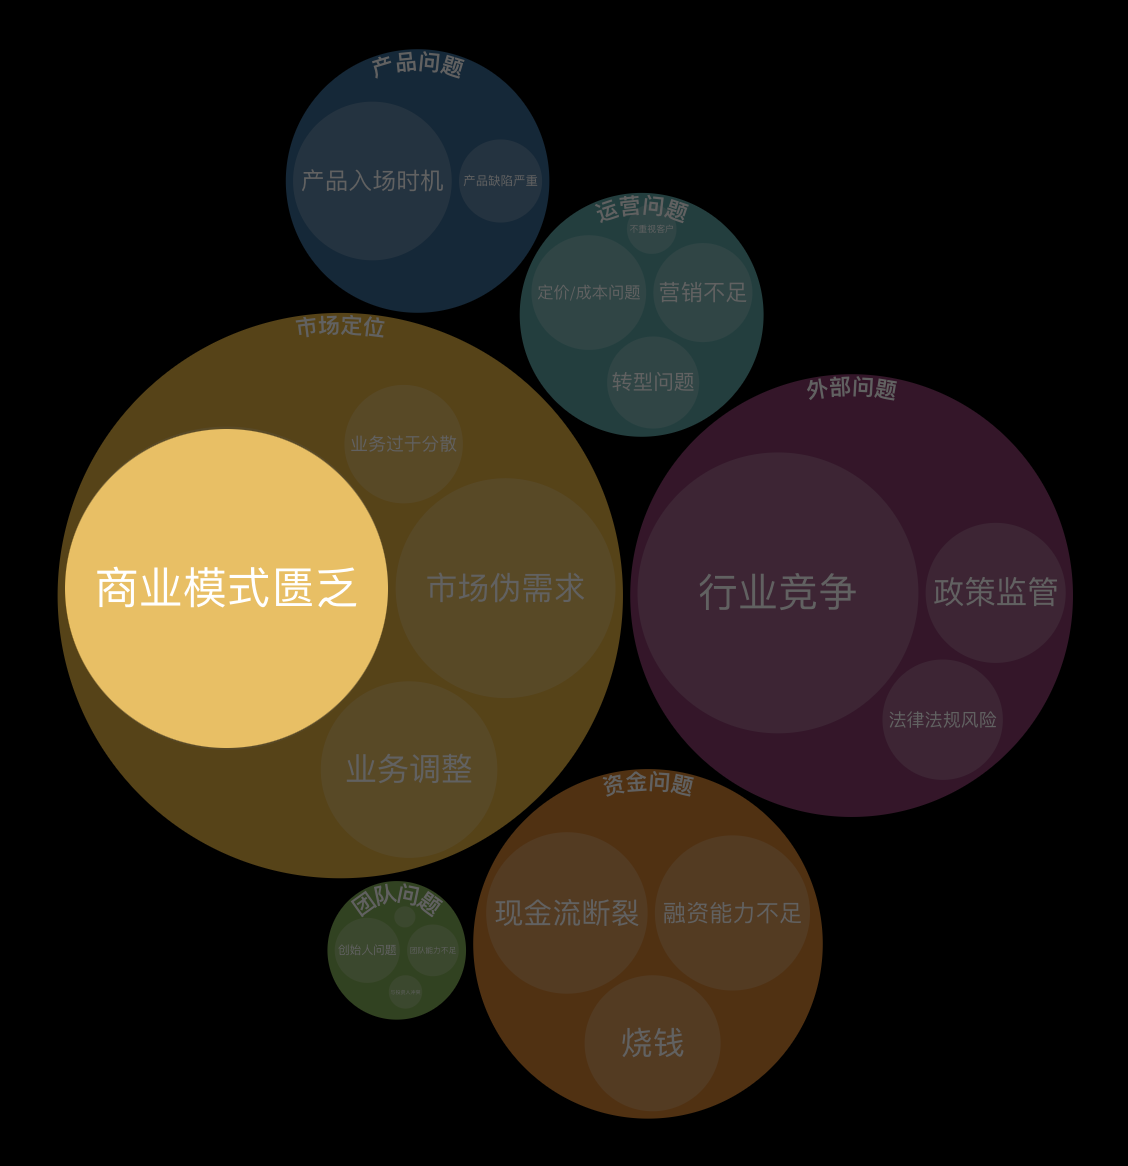
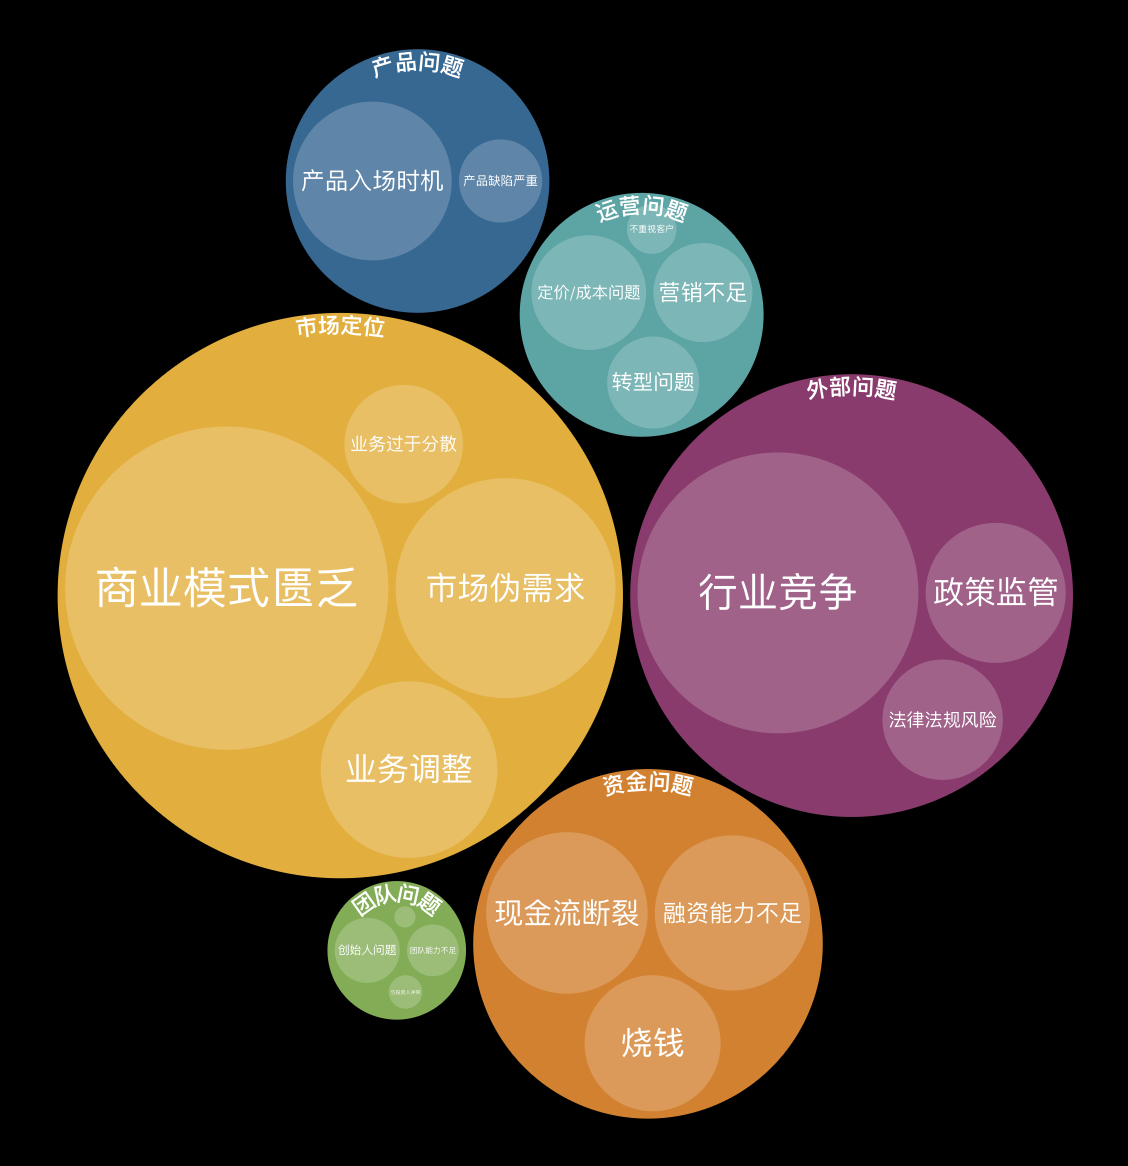
finish dowm

diff --git a/index.html b/index.html
@@ -90,6 +90,7 @@
 		<!-- <div class="flourish-embed" data-src="visualisation/1129604"></div><script src="https://public.flourish.studio/resources/embed.js"></script> -->
 		<section id='intro' style="width:100%;">
 			<!-- <h1 class='intro__hed'>data news</h1> -->
+
 			<div id='teaser' style="width:100%;height:100vh;">
 				<img src="img/teaser-content.png" alt="" style="position:relative;top:10%;width:80%;height:550px">
 			</div>
@@ -106,21 +107,41 @@
 					<p></p>
 				</div>
 				<div class="figure-content" style="max-width:550px;margin:0 auto;background-color: black">
-
-					<div class="bar-race" style="display:none;margin:0 auto;max-width:550px">
-						<div class="flourish-embed" data-src="visualisation/1112101"></div>
-						<div class="bar-intro">
-							在2011年-啊啊啊啊啊啊啊啊啊啊啊啊啊啊啊啊啊啊啊啊啊啊啊啊啊啊啊啊啊啊啊啊啊啊啊啊啊啊啊啊啊啊啊啊啊啊啊啊啊啊啊啊啊啊啊啊啊啊啊啊啊啊啊啊啊啊啊啊啊啊啊啊啊啊啊啊啊啊啊啊啊啊啊啊啊啊啊啊啊啊啊啊啊啊啊啊啊啊啊啊啊啊
+					<div style="position: absolute;top: 50%;transform: translateY(-50%);">
+						<div class="bar-race" style="display:none;margin:0 auto;max-width:550px;">
+							<div class="flourish-embed" data-src="visualisation/1112101"></div>
+							<div class="bar-intro">
+								小垃圾
+							</div>
 						</div>
 					</div>
+
 					<div class="figure-img" style="max-width:550px;margin:0 auto;">
+						<div id="bangdan" style="display:block">
+							<td style="position:relative;">
+								<img style="position:absolute;z-index:100" id="img_0" src="img/img_0.png">
+								<img style="position:absolute;z-index:99" id="img_1" src="img/img_1.png">
+								<img style="position:absolute;z-index:98" id="img_2" src="img/img_2.png">
+								<img style="position:absolute;z-index:97" id="img_3" src="img/img_3.png">
+							</td>
+						</div>
+						<div id="circle-packing" style="display:none;height:100vh">
+							<td style="position:relative;">
+								<img style="position:absolute;z-index:87" id="img_5" src="img/img_5.png">
+								<img style="position:absolute;z-index:86" id="img_6" src="img/img_6.png">
+								<img style="position:absolute;z-index:85" id="img_7" src="img/img_7.png">
+								<img style="position:absolute;z-index:84" id="img_8" src="img/img_8.png">
+								<img style="position:absolute;z-index:83" id="img_9" src="img/img_9.png">
 
-
+							</td>
+						</div>
+						<div id="treemap" style="display:none;height:100vh;text-align: center;">
+							<img style="z-index:82;max-height:600px;max-width:300px;margin: 0 auto;" id="img_10" src="img/img_10.png">
+						</div>
 					</div>
-				</div>
 
-				<!-- <div class="flourish-embed" data-src="visualisation/1129604"></div> -->
-				<!-- <div class="flourish-embed" data-src="visualisation/1111069"></div> -->
+					<!-- <div class="flourish-embed" data-src="visualisation/1129604"></div> -->
+					<!-- <div class="flourish-embed" data-src="visualisation/1111069"></div> -->
 			</figure>
 
 			<article>
@@ -136,34 +157,48 @@
 				<div class='step' data-step='3'>
 					<div class="blank"></div>
 				</div>
-
 				<div class='step' data-step='4'>
+					<div class="blank"></div>
+				</div>
+
+
+				<div class='step' data-step='5'>
 					<!-- <img style="height:100px;width:100px" src="img/treemap.jpg" alt=""> -->
 					<!-- "产品问题"、"运营问题"、"市场定位"、"外部问题"、"团队问题"、"资金问题"。 -->
 					<div class="panel">接下来让我们一起揭秘，新经济公司都有哪些死亡原因？？</div>
-					<div class="panel"> 将死亡原因分成6个大类，由死亡数量排序分别是“市场定位”、“外部问题”、“资金问题”、“产品问题”、“运营问题”、“团队问题”。</div>
+					<div class="panel"> 将死亡原因分成6个大类，由死亡数量排序分别是<span
+							class="backgroundYellow">“市场定位”</span>、“外部问题”、“资金问题”、“产品问题”、“运营问题”、“团队问题”。</div>
 
 				</div>
 
-				<div class='step' data-step='5'>
+				<div class='step' data-step='7'>
 					<div class="panel">
 						这6个大类，又可以细分为19个小类，分别为“商业模式匮乏”、“市场伪需求”、“业务调整”、“业务过于分散”、“行业竞争”、”政策监管“、”法律法规风险“、”现金流断裂“、”融资能力不足“、”烧钱“、”“、”“、”“、”“、”“、”“、”“、”“、”“、”“。
 					</div>
 				</div>
-				<div class='step' data-step='5'>
+				<div class='step' data-step='8'>
 					<div class="panel">其中绝大多数行业的公司死亡原因最多的是“商业模式匮乏”。</div>
 				</div>
-				<div class='step' data-step='6'>
+				<div class='step' data-step='9'>
 					<div class="panel">但是也存在着例外。比如汽车交通行业，死亡原因最多的是“行业竞争”，比如作为汽车交通行业的代表性分支——共享单车，就在行业竞争中死亡了一大片公司。
+						<img style="width:100%" src="img/car1.jpg">
 					</div>
 				</div>
-				<div class='step' data-step='7'>
-					<div class="panel">还有金融行业，死亡原因最多的则是“政策监管”。今年315晚会爆出的“714高炮”，各种跑路的网贷公司，网贷行业乱象横生。</div>
+				<div class='step' data-step='10'>
+					<div class="panel">还有金融行业，死亡原因最多的则是“政策监管”。今年315晚会爆出的“714高炮”，各种跑路的网贷公司，网贷行业乱象横生。
+						<div style="text-align:center;">
+							<img style="width:50%;" src="img/money.jpg">
+						</div>
+					</div>
+
 				</div>
-				<div class='step' data-step='8'>
+				<div class='step' data-step='11'>
+					<div class="panel">对于不同的融资轮次，死亡的原因也是不一样的。对每一个融资轮次进行可视化。可以看到，从”尚未获投“一直到”C轮“，死亡公司的数量逐级递减。</div>
+				</div>
+				<div class='step' data-step='11'>
 					<div class="panel">榜单之最</div>
 				</div>
-				<div class='step' data-step='9'>
+				<div class='step' data-step='12'>
 					<div class="panel">
 						<h3>最长寿</h3>
 						据韦博英语创始人高卫宇发表的公开道歉信表示，韦博英语由于原本的融资计划因业绩持续恶化，以及近期各类负面舆情影响不断被推迟，带来了资金链断裂，导致公司无法正常运营下去。如果说，导致韦博英语死亡的直接原因是资金链的断裂，那这背后深层的原因确实由于成人英语培训市场萎缩导致的业绩恶化和连续不断的负面舆情。可是曾经的培训巨头，
@@ -174,21 +209,21 @@
 						这注定导致了成人英语培训市场的萎缩，而韦博英语主打成人英语培训，明日黄花已成必然。
 					</div>
 				</div>
-				<div class='step' data-step='12'>
+				<div class='step' data-step='13'>
 					<div class="panel">最短命</div>
 				</div>
-				<div class='step' data-step='13'>
+				<div class='step' data-step='14'>
 					<div class="panel">最烧钱</div>
 				</div>
-				<div class='step' data-step='14'>
+				<div class='step' data-step='15'>
 					<div class="panel">最圈钱</div>
 				</div>
-				<div class='step' data-step='15'>
+				<div class='step' data-step='16'>
 					<div class="panel">最有人气</div>
 					<div class="panel">啊啊啊啊啊啊啊啊啊啊啊啊啊啊啊啊啊啊啊啊啊啊啊啊啊啊啊啊啊啊啊啊啊啊啊啊啊啊啊啊啊啊啊啊啊啊啊啊啊啊啊啊啊啊啊啊啊啊啊啊啊啊啊啊啊啊啊啊啊</div>
 
 				</div>
-				<div class='step' data-step='16' id="last-child">
+				<div class='step' data-step='17' id="last-child">
 					<div class="blank"></div>
 				</div>
 
@@ -220,7 +255,7 @@
 		var intro = d3.selectAll('#intro');
 		var outro = d3.selectAll('#outro');
 
-		d3.select('#bar-race').style('width',(window.innerWidth-14)+'px')
+		d3.select('#bar-race').style('width', (window.innerWidth - 14) + 'px')
 		// initialize the scrollama
 		var scroller = scrollama();
 		// generic window resize listener event
@@ -274,45 +309,91 @@
 			}
 
 			// change
-			if (response.index === 3) {
+			if (response.index >= 0 && response.index <= 3) {
+				$('.bar-race').css('display', 'none')
+				$('#circle-packing').css('display', 'none')
+				$('#treemap').css('display', 'none')
+				$('#bangdan').css('display', 'block')
+
+				if (response.index >= 1) {
+					d3.select('#img_' + (response.index - 1))
+						.style('opacity', 1)
+						.transition()
+						.duration(1000)
+						.style('opacity', 0)
+				}
+			}
+			else if (response.index === 4) {
+				$('#bangdan').css('display', 'none')
+				$('#treemap').css('display', 'none')
 				$('.bar-race').css('display', 'block')
 				d3.select('.bar-race')
 					.style('opacity', 1)
 				d3.select('.flourish-embed').select('iframe').style('max-width', '550px')
-				d3.select('.flourish-embed').select('iframe').style('width',(window.innerWidth-14)+'px')
-				$('.figure-img').html('')
+				d3.select('.flourish-embed').select('iframe').style('width', (window.innerWidth - 14) + 'px')
+				// $('.figure-img').html('')
 				return
 			}
-			if (response.index === 4 && response.direction === 'down') // diyige circle
-			{
-				d3.select('.bar-race')
-					.style('opacity', 0)
-
+			else if (response.index >= 5 && response.index <= 9) {
+				$('#bangdan').css('display', 'none')
+				$('#treemap').css('display', 'none')
 				$('.bar-race').css('display', 'none')
-				$('.figure-img').html('')
-				$('.figure-img').append('<img id="img_' + (response.index) + '" src="img/img_' + (response.index) + '.png" />')
+				$('#circle-packing').css('display', 'block')
 
-			} else {
+				if (response.index >= 5) {
+					d3.select('#img_' + (response.index - 1))
+						.style('opacity', 1)
+						.transition()
+						.duration(1000)
+						.style('opacity', 0)
+				}
+
+				// $('.figure-img').html('')
+				// $('.figure-img').append('<img id="img_' + (response.index) + '" src="img/img_' + (response.index) + '.png" />')
+
+			} else if (response.index === 10) {
+				$('#bangdan').css('display', 'none')
+				$('#treemap').css('display', 'block')
+				$('.bar-race').css('display', 'none')
+				$('#circle-packing').css('display', 'none')
+			}
+			else {
 				$('.bar-race').css('display', 'none')
 				// $('.figure-img').html('')
-				d3.select('#img_' + (response.index - 1)).transition().duration(300).style('opacity', 0.8)
-
-				setTimeout(function countSecond() {
-					$('.figure-img').html('')
-					$('.figure-img').append('<img style="opacity:0.8" id="img_' + (response.index) + '" src="img/img_' + (response.index) + '.png" />')
-					d3.select('#img_' + (response.index)).transition().duration(300).style('opacity', 1)
-				}, 300)
-				// setTimeout(function changeState() {
-				// 	$('.figure-img').html('')
-				// 	$('.figure-img').append('<img id="img_' + (response.index) + '" src="img/img_' + (response.index) + '.png" />')
-				// }, 2000);
-
+				// $('.figure-img').append('<img id="img_' + (response.index) + '" src="img/img_' + (response.index) + '.png" />')
 			}
+
+			// if (response.index === 4 && response.direction === 'down') // diyige circle
+			// {
+			// 	d3.select('.bar-race')
+			// 		.style('opacity', 0)
+
+			// 	$('.bar-race').css('display', 'none')
+			// 	$('.figure-img').html('')
+			// 	$('.figure-img').append('<img id="img_' + (response.index) + '" src="img/img_' + (response.index) + '.png" />')
+
+			// } else {
+			// 	$('.bar-race').css('display', 'none')
+			// 	// $('.figure-img').html('')
+			// 	d3.select('#img_' + (response.index - 1)).transition().duration(300).style('opacity', 0.8)
+
+			// 	setTimeout(function countSecond() {
+			// 		$('.figure-img').html('')
+			// 		$('.figure-img').append('<img style="opacity:0.8" id="img_' + (response.index) + '" src="img/img_' + (response.index) + '.png" />')
+			// 		d3.select('#img_' + (response.index)).transition().duration(300).style('opacity', 1)
+			// 	}, 300)
+			// 	// setTimeout(function changeState() {
+			// 	// 	$('.figure-img').html('')
+			// 	// 	$('.figure-img').append('<img id="img_' + (response.index) + '" src="img/img_' + (response.index) + '.png" />')
+			// 	// }, 2000);
+
+			// }
 
 			// 给要全屏的图片加100vh
 			$('#img_0').css('height', '100vh')
 			$('#img_1').css('height', '100vh')
 			$('#img_2').css('height', '100vh')
+			$('#img_3').css('height', '100vh')
 
 		}
 

diff --git a/style.css b/style.css
@@ -14,7 +14,8 @@ body {
     Ubuntu, Cantarell, 'Open Sans', 'Helvetica Neue', sans-serif;
   min-height: 1280px;
   /* color: #3b3b3b; */
-  color: #d3d3d3;
+  /* color: #d3d3d3; */
+  color:rgb(249, 248, 248);
   font-size: 24px;
   background-color: black;
 }
@@ -133,8 +134,12 @@ nav {
   display: none
 }
 
-#figure .figure-content{
+/* #figure .figure-content{
   position: relative;
+  top: 50%;
+  transform: translateY(-50%);
+} */
+#circle-packing img{
   top: 50%;
   transform: translateY(-50%);
 }
@@ -197,4 +202,8 @@ article{
 
 .flourish-embed iframe{
   width:400px;
+}
+
+.backgroundYellow {
+  background: #edad09;
 }
